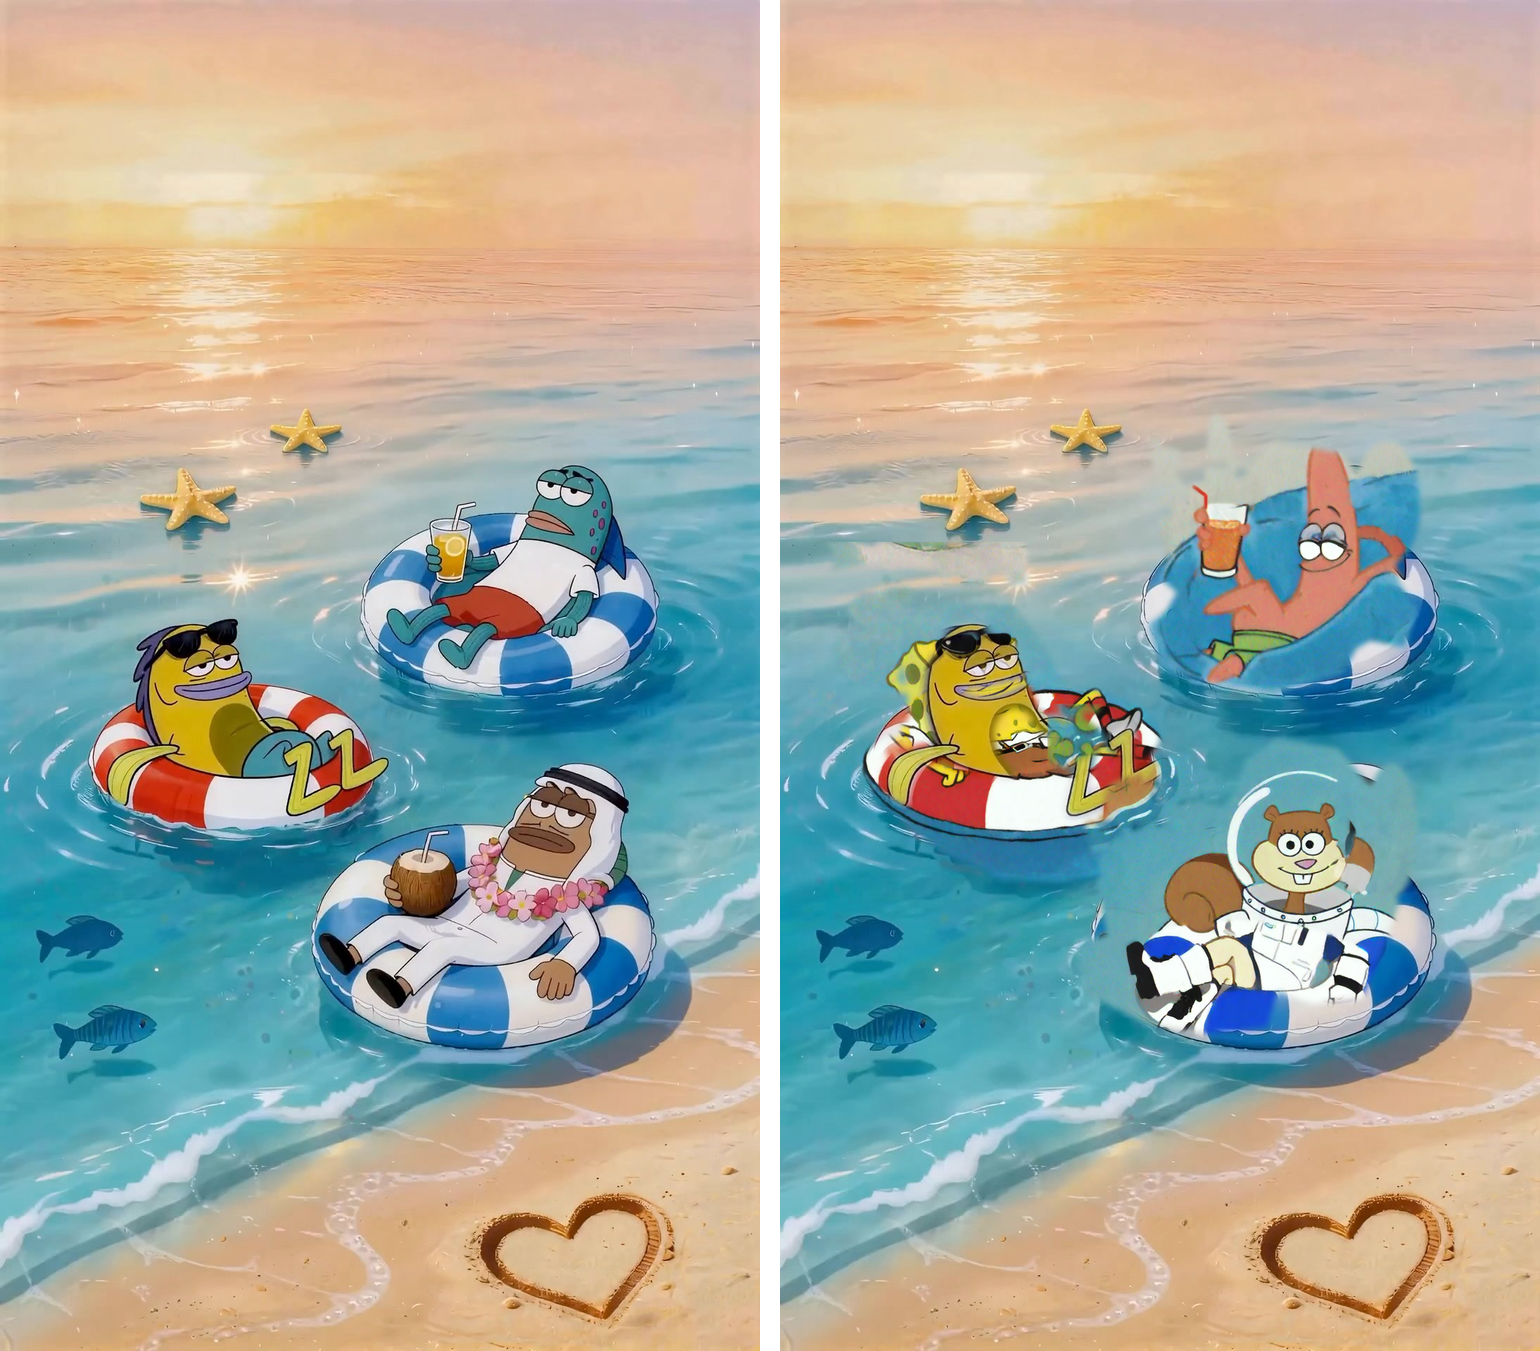
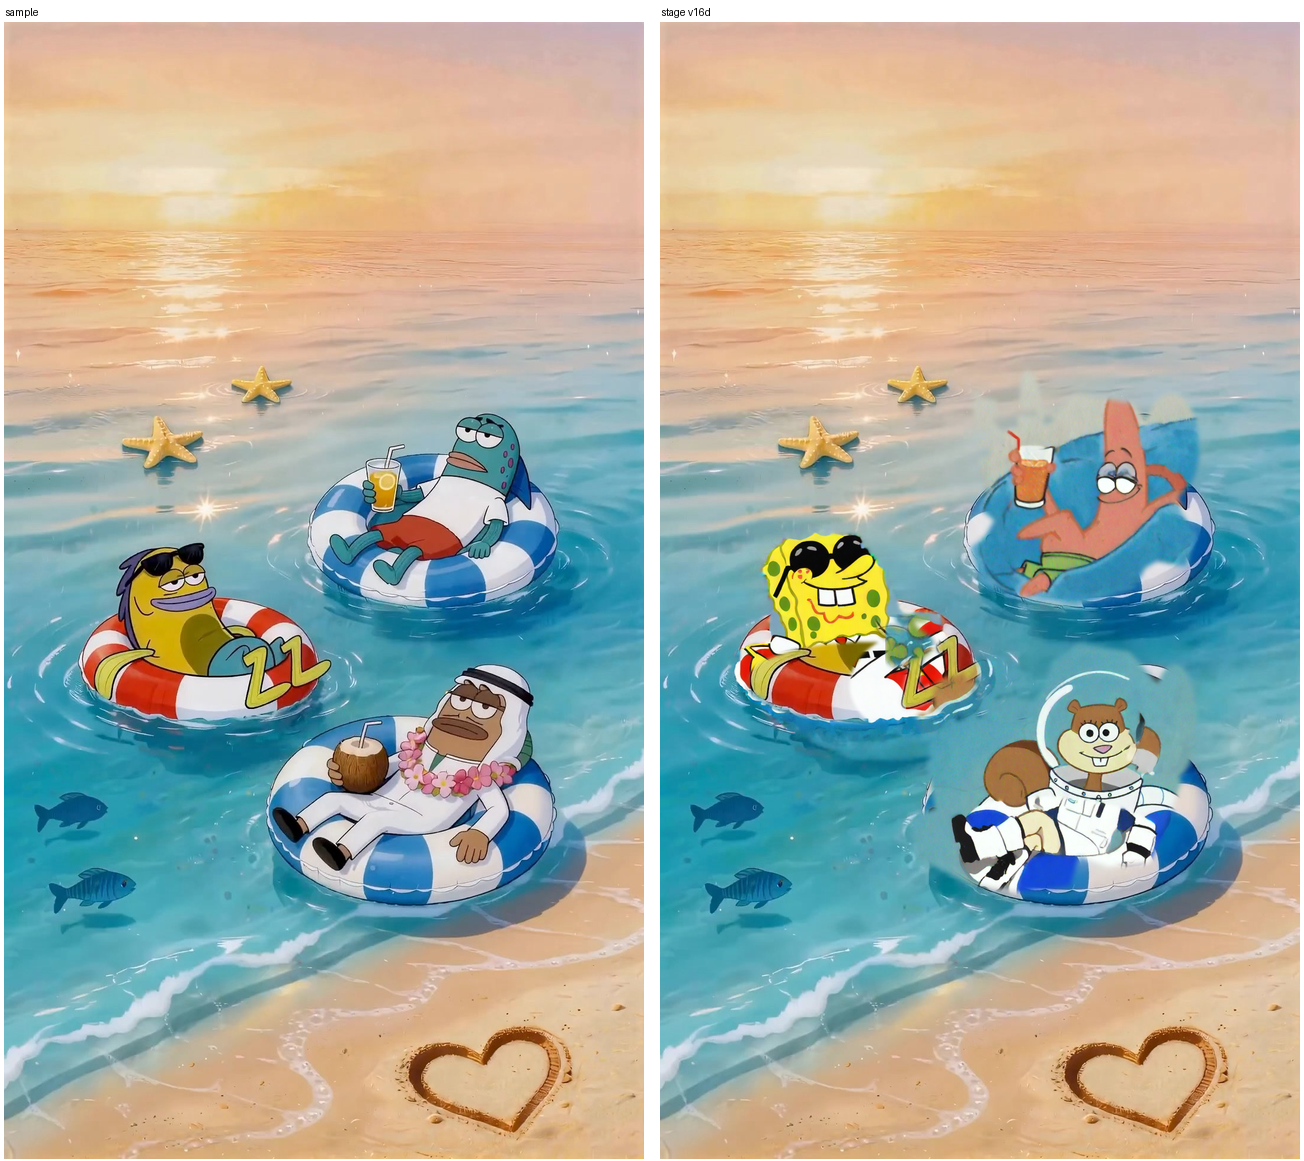
十六代 z1 二轮返工（issue #33 三轮复核）：A 路线原位单元生成，换管线
- 根因：zz_keep 黄斑 chroma 含样张鱼身，历届贴回保留了旧鱼躯干像素（鱼穿裤子的真因）；修复为 zz_letters 仅保字母
- 新管线：样张裁片上整鱼足迹 d1.0 掩膜 LoRA inpaint（掩膜内无鱼像素，角色从零生成），u2-6611 过闸（白衫红领带棕裤、龅牙、翘腿搭圈、墨镜、前缘压身俱全）
- 贴回 unit_paste：足迹全量贴单元、样张圈前缘带重贴样张像素、脚部例外、字母 keep 收窄
- z2/z3 与样张其余像素保留策略不变；重出画 seed 20261108 + 双侧 smooth_seam
- 更新主图/before-after/audit16 z1/整图比对/gap 清单/recipe

diff --git a/delivery/batch/gap-analysis-round16.md b/delivery/batch/gap-analysis-round16.md
@@ -41,7 +41,29 @@
 ## 参数与 seed 表
 | 分区 | 终版 crop（ComfyUI output 路径名） | 贴回参数 |
 |---|---|---|
-| fish1 SB | `g16hole/z2-9422→ts2-9442→ts3-9451→ts4-9461→px-9481→ts8`（z1 返工轮终版，白衫红领带棕裤齐全） | OPEN∪poly18∪轮廓 dil14，ZZ 样张字母 chroma 保留（zz_keep dil5） |
+| fish1 SB | `g16crop/u2-fish1-6611`（A 路线原位单元生成）+ `mask16.unit_paste`（三轮终版） | OPEN∪poly18∪轮廓 dil14，ZZ 样张字母 chroma 保留（zz_keep dil5） |
 | fish2 派大星 | `g16hole/g16in-st2-…-9015`（7001→h6-9006→ff-9011→fs/fs2→st-9014→st2-9015） | OPEN(720,852,148,84)∪poly18∪EXTRA鳍条∪轮廓 dil14 |
 | fish3 珊迪 | `g16hole/g16in-g3-…-9703`（w3-9101→f1-9501→g1-9701→g2-9702→g3-9703） | 同左但 hole=False（透明头盔=样张像素），EXTRA 头巾条 |
 | 出画 | seed 20261108（seam=40 双侧平滑；20261109 底带平灰弃用） | 上下各 280px pad，pad-only denoise 1.0 |
+
+## z1 第二次返工轮（A 路线单元贴入，issue #33 三轮复核）
+
+**根因发现（重要）**：`zz_keep` 的黄斑 chroma 提取不止 ZZ 字母——样张鱼身/腿同为黄色，
+被整块并入 keep 掩膜；历届 `sil_paste_back(keep_img=zz_keep)` 在鱼身足迹处**保留了样张鱼身像素**。
+这正是"鱼穿了海绵宝宝的裤子"的真正原因：不是重绘失败，而是贴回掩膜把旧鱼躯干保护下来了。
+修复：`zz_letters` 仅框取字母区（x365–545, y1005–1170，另清单元 Z 幽灵区 488–548×998–1058）。
+
+**手段变更（流程约束：不许第三次沿同一管线盲试）**：
+- u1/u2 = 原位全足迹单元生成：样张裁片上对整条鱼足迹 d1.0 掩膜 inpaint（LoRA），掩膜内
+  无任何鱼像素存活，角色从零生成，圈/水为条件上下文（与十五/十六代所有管线不同）；
+- txt2img 独立单元（A-sb-5501..5503）姿态漂移（站姿/灰底），弃用；
+- u1 批（6601 服装齐全但墨镜滑到脑后；6603 墨镜正确但衬衫脱了）→ 提示词修正（服装词前置、
+  NEG 加 shirt off/open mouth 等、LoRA 1.0）得 u2 批 → **u2-6611 过闸**（翘腿搭圈、红领带、
+  龅牙、前缘压身俱全；墨镜戴眼为松弛态，形体可辨达标）；u3 面部精修（墨镜上推）把右眼画成
+  黑块，弃用回退 6611；
+- 贴回 `mask16.unit_paste`：足迹多边形18∪OPEN∪头部椭圆全量贴入单元（覆盖旧鱼全足迹），
+  **样张圈前缘带（145–555×1047–1183，脚部例外）重贴回样张像素**（前缘压身），字母 keep 收窄；
+- 2.4x sbs 过闸后重合成 v16d → 出画（seed 20261108 不变）→ 双侧 smooth_seam。
+
+**已知残留**：单元右圈带（x≈490–560, y≈990–1050）为模型重画，比样张红白饱和带浅一档，
+远景不可辨；脚部部分被样张 ZZ 字母遮挡（字母在前，与样张层次一致）。

diff --git a/delivery/recipe.md b/delivery/recipe.md
@@ -474,7 +474,7 @@ python3 compose-round12.py --bg <bg.png> --scene <scene-id>|all --outdir output/
 ### seed 表（终版）
 | 分区 | 生成链 | 说明 |
 |---|---|---|
-| fish1 SB | `d88i-66` → `h7sb-9403` → **z1 返工轮** `z2-9422→ts2-9442→ts3-9451→ts4-9461→px-9481→ts8` | 内孔海水 inpaint；ZZ 样张保留；返工轮补全官方躯干（白衫+红领带+棕裤；教训：服装必须带 LoRA 掩膜 inpaint，大域 d1.0 易出 ghost 脸，残余孔点程序化柔黄抹平） |
+| fish1 SB | `d88i-66` → `h7sb-9403` → z1 返工 `z2/ts2..ts8` → **三轮终版 A 路线** `u2-fish1-6611` + `unit_paste` | 三轮复核根因：`zz_keep` 黄斑含样张鱼身，历届贴回把旧鱼躯干像素保留（鱼穿裤子的真因）；终版=原位全足迹 d1.0 单元生成（掩膜内无鱼像素）+ 足迹贴回 + 样张圈前缘重贴 + 仅字母 keep（`zz_letters`）|
 | fish2 派大星 | `7001`(w1 精修) → `h6-9006` → `ff-9011`(鳍条) → `fs/fs2`(残清) → `st-9014`(吸管) → `st2-9015` | 仰躺搭圈拿橙汁+吸管；死蓝底→波纹海水 |
 | fish3 珊迪 | `d88g-9`→`w1n-8001`→`w3-9101` → `f1-9501`(去花) → `g1/g2/g3-970x`(头巾/黑带残清) | 细白圈透明头盔标准脸；花环移除（宁可无，不可错位） |
 | 出画 | seed 20261108；接缝双侧 smooth_seam(half=40,radius=8) | 20261109 底带平灰，弃用 |
